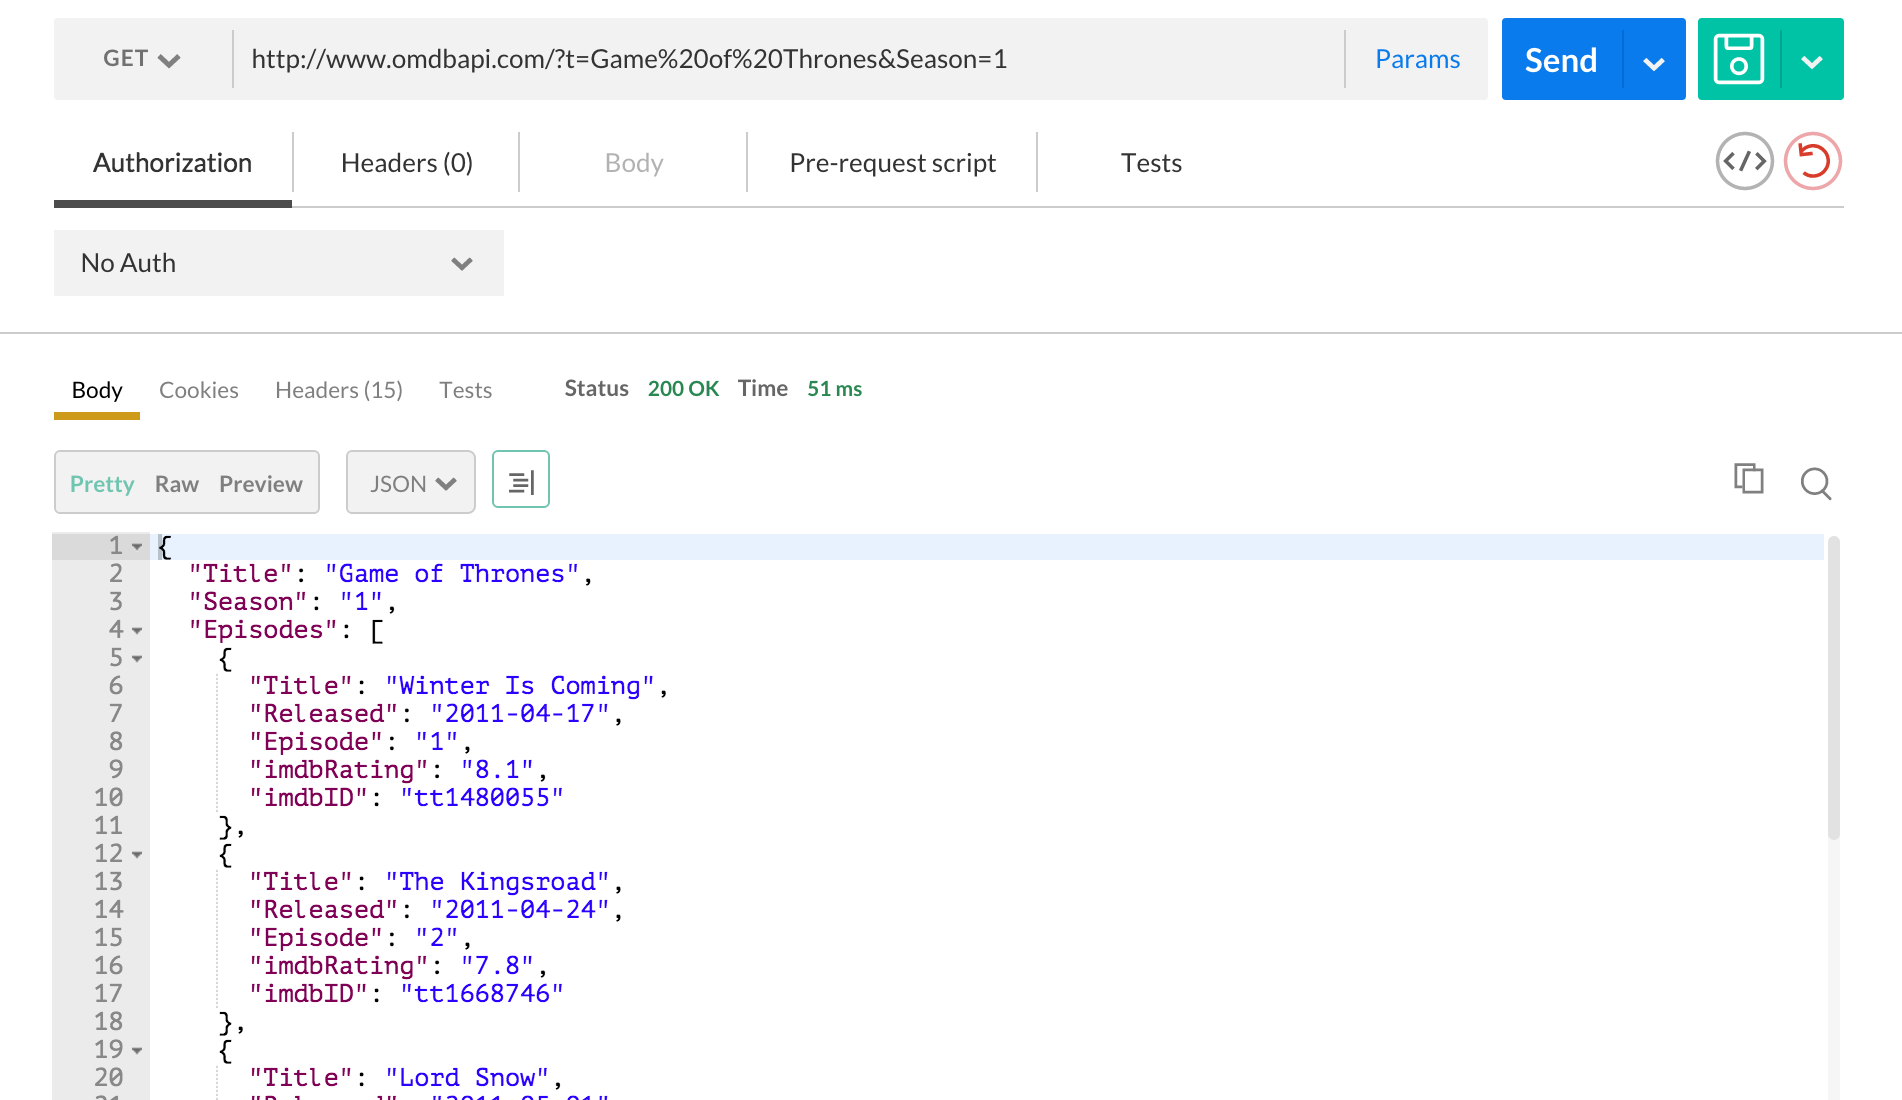
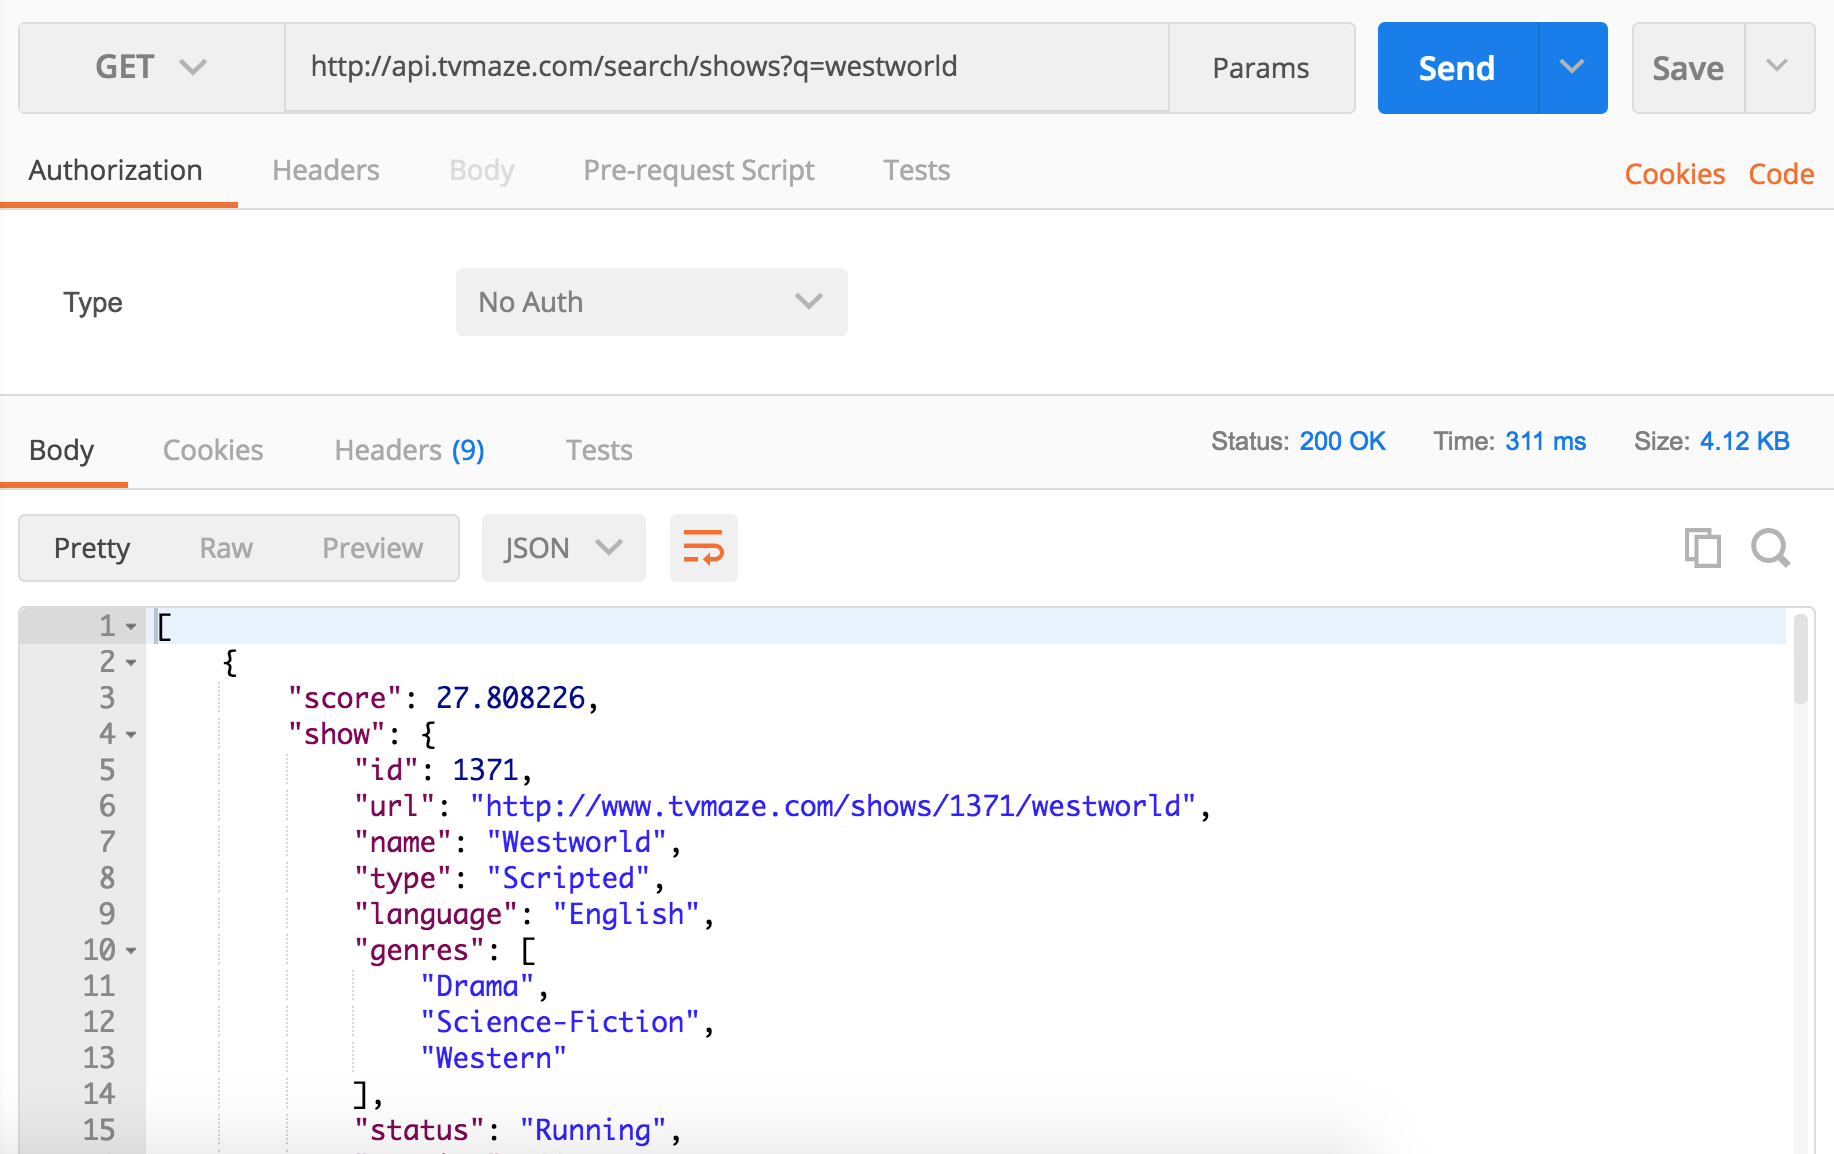
Minor updates and Fix redirect bug in YouDo:Comments#update

diff --git a/readme.md b/readme.md
@@ -109,7 +109,7 @@ $ rails s
 
 > The solution to today's code is available on the `api-solution` branch
 
-Earlier we used Postman to make an HTTP request to retrieve information from omdbapi.com, a 3rd party API. Under the hood, that API received a GET request in the exact same way that the Rails application we have built in class thus far have received GET requests.
+Earlier we used Postman to make an HTTP request to retrieve information from tvmaze.com, a 3rd party API. Under the hood, that API received a GET request in the exact same way that the Rails application we have built in class thus far have received GET requests.
 > All the requests that our Rails application can receive are listed when we run `rails routes` in the Terminal. We create RESTful routes and corresponding controller actions that respond to `GET` `POST` `PATCH` `PUT` and `DELETE` requests.
 
 ```bash
@@ -435,7 +435,7 @@ Your turn. Make sure we can create and update Comments via requests that expect 
 
     respond_to do |format|
       if @comment.update!(comment_params)
-        format.html { redirect_to @comment, notice: 'Comment was successfully updated.' }
+        format.html { redirect_to [@grumble, @comment], notice: 'Comment was successfully updated.' }
         format.json { render json: @comment }
       else
         format.html { render :new }
